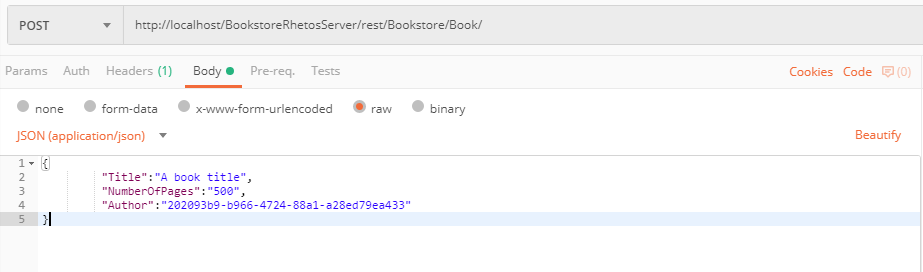
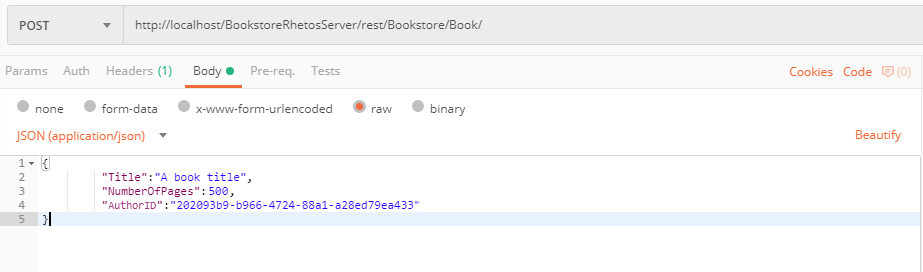
Link to Postman instructions. Removed the excess body and braces in the DELETE request.

Changed region(s): [[0.1213, 0.6765, 0.455, 0.7941]]

diff --git a/Using-Postman-with-Rhetos.md b/Using-Postman-with-Rhetos.md
@@ -1,10 +1,14 @@
-# Using Postman with the Rhetos framework
-Create a collection for recording all requests. This will simplify and speed up testing of the application.
+# Using Postman with Rhetos REST Web API
+
+In Postman create a collection for recording all requests. This will simplify and speed up testing of the application.
 First choose the authentication type - NTLM, and enter your domain data:
 
 ![Postman image 1](images/postman-image1.png)
 
-The image below shows the fields used for testing. Using the left dropdown menu you can select the desired HTTP method (GET, POST, PUT, DELETE, etc.), while the center field should contain the server URL (server resource). When the desired method and URL have been entered, hit Send to send the request.
+The image below shows the fields used for testing. Using the left dropdown menu
+you can select the desired HTTP method (GET, POST, PUT, DELETE, etc.),
+while the center field should contain the server URL (server resource).
+When the desired method and URL have been entered, hit Send to send the request.
 
 If your request updates the database, then you should select *Body -> raw* and set the format to JSON.
 
@@ -12,11 +16,17 @@ If your request updates the database, then you should select *Body -> raw* and s
 ![Postman image 3](images/postman-image3.png)
 
 The request is sent to Rhetos through a REST service in the following format: `{Rhetos server URL}/Rest/{Module}/{Entity}/`
-Image 3 shows accessing the SustavZaNabavu application through the REST service, and then accessing the module SustavZaNabavu and its entity Adresa. At the the end `/` needs to be added for accessing the resource: `http://localhost/BookstoreRhetosServer/rest/Bookstore/Book/`
+
+The image above shows accessing the BookstoreRestServer application through the REST service,
+and then accessing the module Bookstore and its entity Book.
+At the the end `/` needs to be added for accessing the resource:
+`http://localhost/BookstoreRhetosServer/rest/Bookstore/Book/`
 All the requests are sent in the JSON format.
 
-Entities which contain references to other entities are stored in the database with an "ID" suffix and should be referenced in that way:
-```
+Entities which contain references to other entities are stored in the database
+with an "ID" suffix and should be referenced in that way (for example, `AuthorID`).
+
+```c
 Entity Book
 {
     ShortString Code { AutoCode; }
@@ -25,37 +35,46 @@ Entity Book
     Reference Author Bookstore.Person;
 }
 ```
+
 JSON:
+
 ```json
 {
     "Title":"A book title",
-    "NumberOfPages":"500",
-    "Author":"202093b9-b966-4724-88a1-a28ed79ea433"
+    "NumberOfPages":500,
+    "AuthorID":null
 }
 ```
 
 After saving in the database, the field below displays either an error or the ID of the newly created object.
+
 ```json
 {
-    "ID": "500a5a7c-a1cd-473d-885a-079dc4531bc0"
+    "ID": "f0544f71-7d35-4f3d-9410-025651bcc306"
 }
 ```
 
-If we want to fetch the given address, the address ID needs to be added in the URL, wrapped in curly brackets, and the GET method need to be selected: `http://localhost/BookstoreRhetosServer/rest/Bookstore/Book/{f0544f71-7d35-4f3d-9410-025651bcc306}`
+If we want to fetch the given record, the ID needs to be added in the URL and the GET method need to be selected: `http://localhost/BookstoreRhetosServer/rest/Bookstore/Book/f0544f71-7d35-4f3d-9410-025651bcc306`
 
-When accessing specific data from the database, the URL should not end with `/`. When deleting from the database, you should select the DELETE method and send the ID of the wanted record in the JSON format. This ID also needs to be inserted in the REST request URL, wrapped in curly brackets. See image below:
+When reading a specific record from the database, the URL should not end with `/`.
+
+When deleting a record, you should select the DELETE method and add the ID of the record to the URL. See the image below:
 
 ![Postman image 4](images/postman-image4.png)
 
-All of the errors can also be found in the `Rhetos/RhetosServer.log` file.
-You should create all of the requests for test data insertion and save them in a collection. At the top of the Postman screen there is a Runner option which is used for running the whole collection at once.
+Troubleshooting: If the web request returns an internal server error, you can find additional information
+on that error in the [system log](Logging#system-log) file `RhetosServer\Logs\RhetosServer.log`.
 
-## Method usage summary:
+You can use Postman collections to save all the web requests for inserting the test data.
+At the top of the Postman screen there is a Runner option which is used for running the whole collection at once.
+
+## Method usage summary
 
 xxx = application URI
+
 * GET: xxx/id
 * POST: xxx/
 * PUT: xxx/id
 * DELETE: xxx/id
 
-Rhetos REST API documentation: https://github.com/Rhetos/RestGenerator/blob/master/Readme.md
+Rhetos REST API documentation: <https://github.com/Rhetos/RestGenerator/blob/master/Readme.md>

diff --git a/Create-your-first-Rhetos-application.md b/Create-your-first-Rhetos-application.md
@@ -116,7 +116,7 @@ Note that **after making changes** in the DSL script (Book.rhe), you will need t
       * Header: Name `Content-Type`, Value `application/json; charset=utf-8`
       * Body: `{ "Code": "B+++", "NumberOfPages": 123, "Title": "The curiousity" }`
     * The expected response from the server is "400 Bad Request", with the UserMessage "It is not allowed to enter misspelled word "curiousity".". This is a standard Rhetos response for validation that is defined with **InvalidData** concept (see the DSL script above).
-    * Troubleshooting: If you are using Postman, note that it sometimes has trouble with Windows Authentication.
+    * You can also use Postman to test the REST Web API, see the [instructions](Using-Postman-with-Rhetos). Note that it sometimes has trouble with Windows Authentication.
 5. Correct the request body by replacing "The curiousity" with "The curiosity", and send the request again.
     * The expected response is "200 OK" with the generated ID in the response body.
 6. View the new book in the database or in browser. Check that the inserted book has the automatically generated three-digit Code with prefix "B" (by **AutoCode** concept for pattern "B+++").
